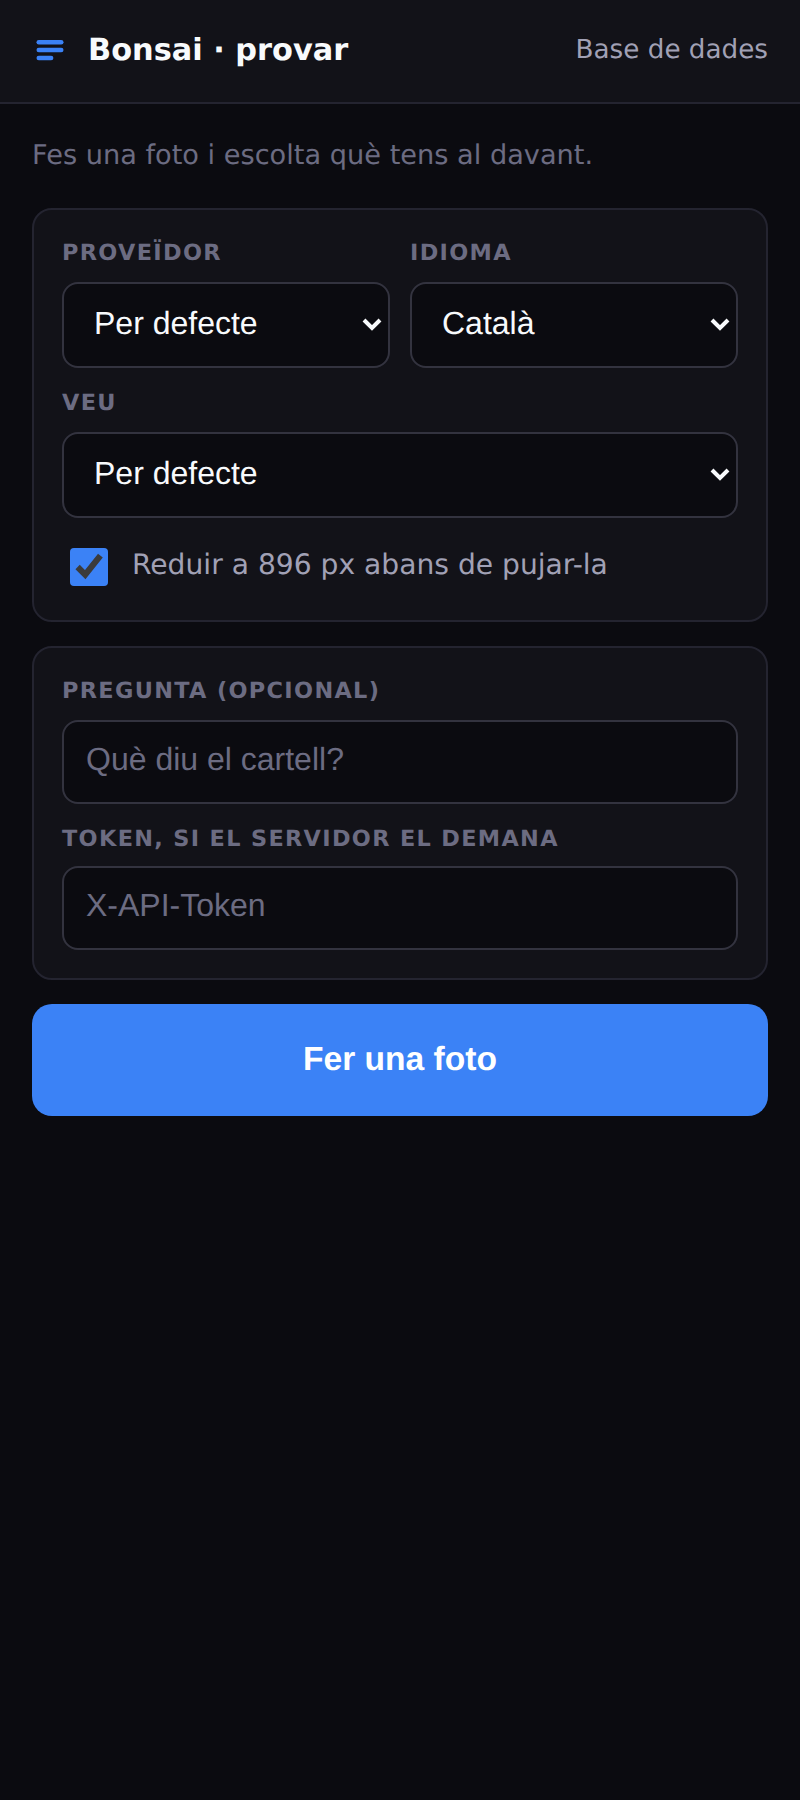
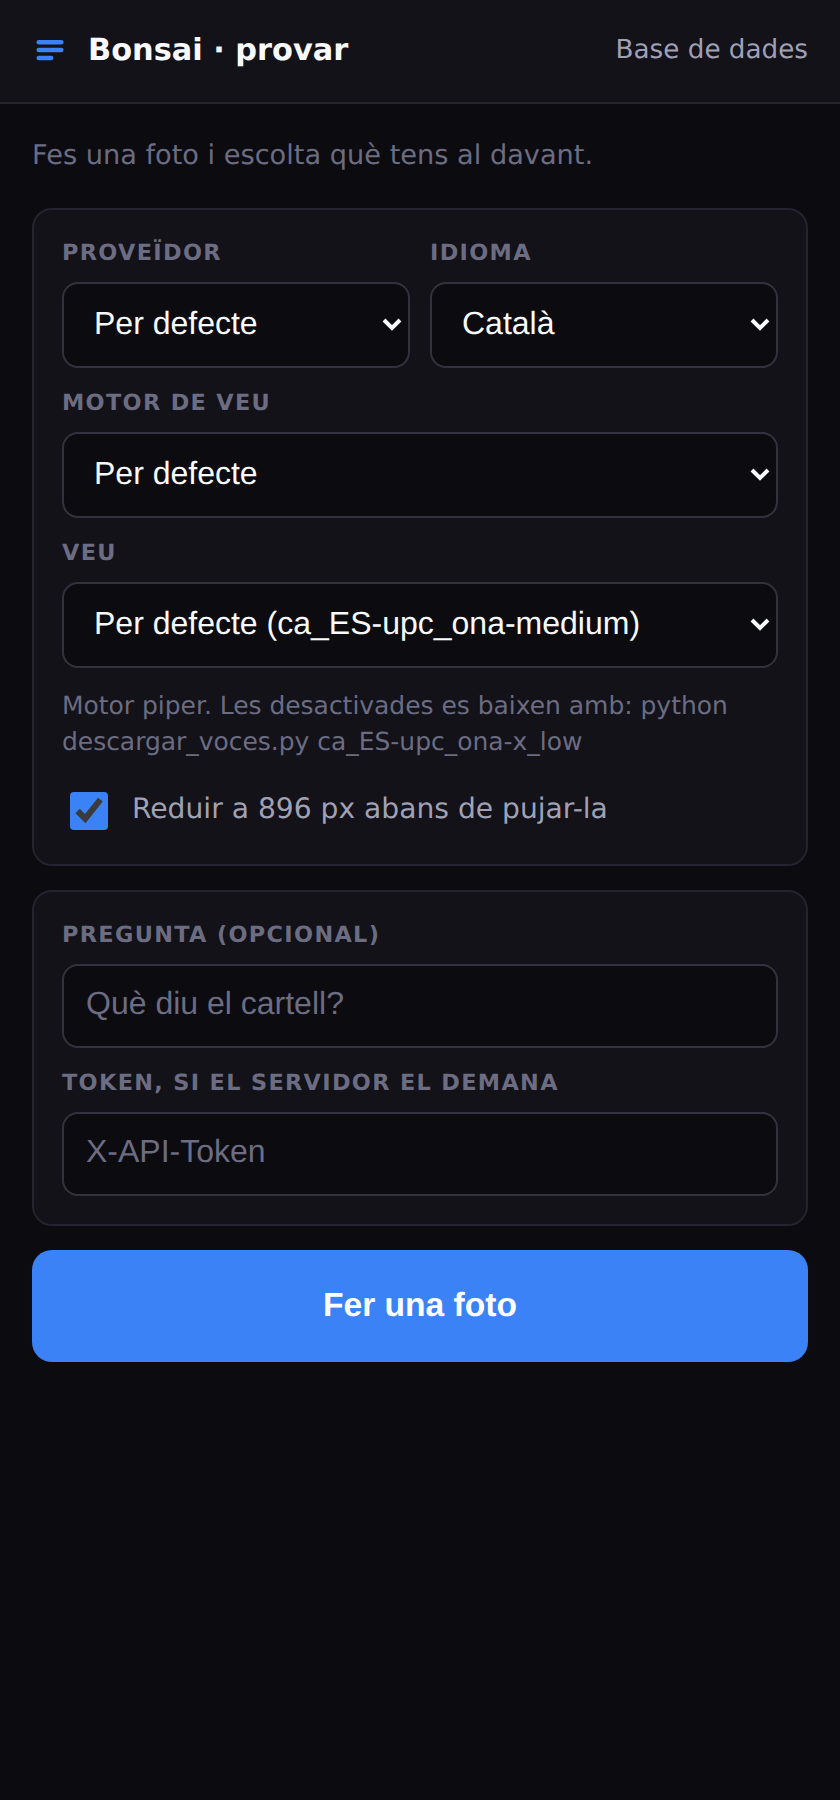
Poder triar la veu de Piper als endpoints i a /provar
/look i /speak ja acceptaven "voice" però /ask no: se li passava None. Ara
els tres el prenen, i la veu es valida abans de sintetitzar. Amb Piper la
veu és un fitxer .onnx al disc, o sigui que es pot comprovar: si està al
catàleg però no baixada, un 400 amb la comanda exacta; si no existeix, un
400 amb la llista del que hi ha. Abans una veu mal escrita donava un 502
a mitja síntesi i calia mirar els logs. Es comprova abans de la visió, així
que no gasta ni un token.

/voices ara distingeix el que hi ha al disc (voices), el que sabem baixar
(catalog) i la de per defecte (default), que no és el mateix i confondre-ho
feia que la interfície semblés trencada.

A /provar hi ha un desplegable de veus que s'omple de /voices, filtrat per
l'idioma triat, que recorda la tria i que ensenya les que caldria baixar
desactivades i amb la comanda a sota.

Al catàleg hi faltava ca_ES-upc_ona-x_low. Comprovat contra el repositori
de rhasspy/piper-voices que en català només n'hi ha tres: ni low ni high
d'upc_ona ni una medium d'upc_pau, totes 404.

Mesurades les dues que es poden fer servir ara mateix: upc_ona medium
215 ms (195-265) i upc_pau x_low 145 ms (131-155). Els 70 ms no compensen
sobre els ~1.900 ms d'un /ask sencer, així que la de per defecte no canvia.

Provat amb Playwright i httpx: 15 comprovacions, incloent-hi que canviar
d'idioma canvia la llista, que la tria es recorda entre càrregues i que
/look i /ask rebutgen una veu inventada.
[…]

diff --git a/static/probar.html b/static/probar.html
@@ -143,12 +143,18 @@
     </div>
   </div>
   <div class="espai"></div>
-  <label for="tts">Veu</label>
+  <label for="tts">Motor de veu</label>
   <select id="tts">
     <option value="">Per defecte</option>
     <option value="piper">Piper (local, ~205 ms)</option>
     <option value="edge">edge-tts (Microsoft, ~1,3 s)</option>
   </select>
+  <div class="espai"></div>
+  <label for="veu">Veu</label>
+  <select id="veu">
+    <option value="">Per defecte</option>
+  </select>
+  <p class="nota" id="notaVeu"></p>
   <div class="check">
     <input type="checkbox" id="reduir" checked>
     <label for="reduir">Reduir a 896 px abans de pujar-la</label>
@@ -181,10 +187,63 @@ const escapa = s => String(s).replace(/[<&]/g, c => ({"<":"&lt;","&":"&amp;"}[c]
 $("btn").onclick = () => $("file").click();
 
 // Recorda els ajustos entre fotos: provar des del mòbil és repetir molt.
-for (const id of ["prov", "lang", "tts", "token", "reduir"]) {
+for (const id of ["prov", "lang", "tts", "veu", "token", "reduir"]) {
   const el = $(id), desat = localStorage.getItem("bonsai." + id);
   if (desat !== null) el[el.type === "checkbox" ? "checked" : "value"] = desat === "true" ? true : desat === "false" ? false : desat;
   el.onchange = () => localStorage.setItem("bonsai." + id, el.type === "checkbox" ? el.checked : el.value);
+}
+
+/* Omple el desplegable de veus des de /voices.
+
+   Amb Piper hi ha dues llistes que no són el mateix: les que hi ha al disc
+   (funcionen ja) i les que el servidor sap baixar però encara no té. Les
+   segones es mostren desactivades amb el que cal fer, perquè si no sembla que
+   la interfície estigui trencada quan en tries una i torna un 400. */
+async function carregaVeus() {
+  const sel = $("veu"), nota = $("notaVeu");
+  // Del localStorage i no de sel.value: quan es carrega la pàgina el
+  // desplegable encara està buit, així que el bucle que restaura els ajustos
+  // no hi ha pogut deixar res.
+  const triada = localStorage.getItem("bonsai.veu") || "";
+  const cap = {};
+  if ($("token").value.trim()) cap["X-API-Token"] = $("token").value.trim();
+
+  // Filtra per idioma: les veus es diuen pel locale (ca_ES-..., es_ES-...) i
+  // amb l'idioma en castellà no té sentit ensenyar les catalanes.
+  const q = new URLSearchParams({ prefix: $("lang").value || "ca" });
+  if ($("tts").value) q.set("tts_provider", $("tts").value);
+
+  try {
+    const r = await fetch(API + "/voices?" + q, { headers: cap });
+    if (!r.ok) throw new Error("HTTP " + r.status);
+    const d = await r.json();
+
+    sel.innerHTML = `<option value="">Per defecte (${d.default})</option>`;
+    for (const v of d.voices) {
+      if (v !== d.default) sel.add(new Option(v, v));
+    }
+    const perBaixar = (d.catalog || []).filter(v => !d.voices.includes(v));
+    for (const v of perBaixar) {
+      const o = new Option(v + " — cal baixar-la", v);
+      o.disabled = true;
+      sel.add(o);
+    }
+    sel.value = [...sel.options].some(o => o.value === triada && !o.disabled)
+      ? triada : "";
+    nota.textContent = perBaixar.length
+      ? `Motor ${d.tts}. Les desactivades es baixen amb: python descargar_voces.py ${perBaixar[0]}`
+      : `Motor ${d.tts}, ${d.voices.length} ${d.voices.length === 1 ? "veu" : "veus"} a punt.`;
+  } catch (e) {
+    // Sense token no es pot llistar: no és motiu per no deixar fer fotos.
+    sel.innerHTML = '<option value="">Per defecte</option>';
+    nota.textContent = "No s'ha pogut llegir /voices (" + (e.message || e) +
+      "). Es farà servir la veu per defecte.";
+  }
+}
+
+carregaVeus();
+for (const id of ["tts", "lang", "token"]) {
+  $(id).addEventListener("change", carregaVeus);
 }
 
 /* Redueix al mòbil abans de pujar-la. Amb dades mòbils la pujada és la part
@@ -230,6 +289,7 @@ $("file").onchange = async e => {
     };
     if ($("prov").value) cos.provider = $("prov").value;
     if ($("tts").value) cos.tts = $("tts").value;
+    if ($("veu").value) cos.voice = $("veu").value;
     if ($("prompt").value.trim()) cos.prompt = $("prompt").value.trim();
 
     const cap = { "Content-Type": "application/json" };

diff --git a/main.py b/main.py
@@ -267,6 +267,26 @@ def _plan_de_audio(
         )
 
     voz = tts.voice_for(lang or tts.DEFAULT_LANG, voice, proveedor)
+    # Con Piper la voz es un fichero .onnx en disco, así que se puede
+    # comprobar antes de sintetizar. Sin esto, una voz mal escrita daba un 502
+    # a mitad de la síntesis y había que mirar los logs para entender por qué.
+    # Con edge-tts no se valida: el catálogo es de Microsoft y consultarlo
+    # costaría una petición a la red en cada foto.
+    if proveedor == "piper" and not piper_tts.is_available(voz):
+        if voz in piper_tts.catalogo():
+            raise HTTPException(
+                400,
+                f"La voz {voz!r} existe pero no está bajada. Trae los 63 MB "
+                f"con:  python descargar_voces.py {voz}",
+            )
+        raise HTTPException(
+            400,
+            f"Voz desconocida: {voz!r}. En disco hay: "
+            f"{', '.join(piper_tts.local_voices()) or 'ninguna'}. "
+            f"Se pueden bajar: {', '.join(piper_tts.catalogo())}. "
+            "El listado en vivo está en /voices.",
+        )
+
     if formato == "mp3":
         rate, bits = 24000, 16          # lo que devuelve edge-tts
     else:
@@ -562,6 +582,7 @@ async def ask(
     lang: str | None = None,
     provider: str | None = None,
     tts_provider: str | None = Query(default=None, alias="tts"),
+    voice: str | None = None,
     audioFormat: str | None = None,
     sampleRate: int | None = None,
     micRate: int = 16000,
@@ -589,13 +610,16 @@ async def ask(
     streaming, con el texto en `X-Bonsai-Text`. Además vuelve lo que se entendió
     en `X-Bonsai-Transcript`, para poder ver por qué ha contestado eso.
 
+    La voz se elige con `voice` (los nombres de Piper, p. ej.
+    `ca_ES-upc_pau-x_low`); `/voices` dice cuáles hay.
+
     Sobre la cuota: transcribir **no** gasta los tokens de texto de Groq
     (Whisper se factura por segundos de audio), así que probar `/ask` no te
     deja sin `/look`.
     """
     # Todo lo que se puede validar sin gastar nada se valida antes de que el
     # dispositivo suba medio megabyte para nada.
-    plan = _plan_de_audio(tts_provider, audioFormat, lang, None, sampleRate)
+    plan = _plan_de_audio(tts_provider, audioFormat, lang, voice, sampleRate)
     if micRate <= 0:
         raise HTTPException(400, f"micRate ha de ser positivo, no {micRate}.")
     if not stt.api_key():
@@ -832,35 +856,29 @@ def clear_device(device_id: str) -> dict[str, Any]:
 async def voices(prefix: str = "", tts_provider: str | None = None) -> dict[str, Any]:
     """Lista las voces disponibles, p. ej. /voices?prefix=ca
 
-    Con Piper son los modelos que hay en disco; con edge-tts, el catálogo de
-    Microsoft.
+    Con Piper devuelve tres cosas distintas, que conviene no confundir:
+
+    - `voices`: los modelos que hay en disco. Son las que funcionan ya.
+    - `catalog`: las que además sabemos bajar (`descargar_voces.py`). Pedir una
+      de estas sin haberla bajado da un 400 que dice cómo hacerlo.
+    - `default`: la que se usa si no se pide ninguna.
+
+    Con edge-tts solo hay `voices`: es el catálogo de Microsoft, que ya está
+    todo disponible sin bajar nada.
     """
     try:
         proveedor = tts.effective_provider(tts_provider)
     except ValueError as e:
         raise HTTPException(400, str(e)) from e
-    return {
+
+    salida: dict[str, Any] = {
         "tts": proveedor,
         "voices": await tts.list_available_voices(prefix, proveedor),
+        "default": tts.voice_for(tts.DEFAULT_LANG, None, proveedor),
     }
-
-
-# --------------------------------------------------------------------------
-# Panel de administración de la base de datos, en /admin
-# --------------------------------------------------------------------------
-# Es acceso SQL completo, así que solo se monta si hay ADMIN_PASSWORD. Sin
-# ella la ruta no existe, que es más seguro que existir y estar abierta.
-# Los recuerdos también se pueden tocar por la API con /memory, sin SQL.
-if os.environ.get("ADMIN_PASSWORD"):
-    import panel as _panel
-    from nicegui import ui as _ui
-
-    _panel.construeix("/admin")
-    _ui.run_with(
-        app,
-        mount_path="/admin",
-        # Firma la cookie de sesión del panel. Se deriva del propio password
-        # para no obligar a definir otra variable más.
-        storage_secret=os.environ["ADMIN_PASSWORD"],
-        title="Bonsai · base de dades",
-    )
+    if proveedor == "piper":
+        salida["catalog"] = [
+            v for v in piper_tts.catalogo()
+            if v.lower().startswith(prefix.lower())
+        ]
+    return salida

diff --git a/piper_tts.py b/piper_tts.py
@@ -42,8 +42,11 @@ BASE_URL = "https://huggingface.co/rhasspy/piper-voices/resolve/main"
 
 # Dónde vive cada voz dentro del repositorio de Hugging Face. Hace falta porque
 # la ruta no se deduce del nombre: el idioma va dos veces y la calidad aparte.
+# En catalán solo hay estas tres en el repositorio (comprobado: ni "low" ni
+# "high" de upc_ona, ni una medium de upc_pau; los tres dan 404).
 _RUTAS = {
     "ca_ES-upc_ona-medium": "ca/ca_ES/upc_ona/medium",
+    "ca_ES-upc_ona-x_low": "ca/ca_ES/upc_ona/x_low",
     "ca_ES-upc_pau-x_low": "ca/ca_ES/upc_pau/x_low",
     "es_ES-davefx-medium": "es/es_ES/davefx/medium",
     "en_GB-alba-medium": "en/en_GB/alba/medium",
@@ -70,6 +73,15 @@ def voice_path(voice: str) -> str:
 
 def is_available(voice: str) -> bool:
     return os.path.isfile(voice_path(voice))
+
+
+def catalogo() -> list[str]:
+    """Las voces que sabemos de dónde bajar, estén en disco o no.
+
+    Sirve para poder decirle a quien pide una voz que no está si es que le
+    falta bajarla o es que se ha equivocado escribiéndola.
+    """
+    return sorted(_RUTAS)
 
 
 def local_voices() -> list[str]:

diff --git a/README.md b/README.md
@@ -133,7 +133,7 @@ bonsai> help
 | `POST` | `/speak?text=...&lang=ca` | Només text a veu |
 | `GET`/`POST` | `/memory` | Dispositius i records |
 | `PATCH`/`DELETE` | `/memory/{deviceId}/{id}` | Corregeix o esborra un record |
-| `GET` | `/voices?prefix=ca` | Veus disponibles |
+| `GET` | `/voices?prefix=ca` | Quines veus hi ha i quines es poden baixar |
 | `GET` | `/health` | Estat del servei. Sense autenticació |
 | `GET` | `/admin` | Panell de la base de dades. Amb `ADMIN_PASSWORD` |
 
@@ -147,6 +147,7 @@ bonsai> help
   "lang": "ca",                        // ca | es | en
   "provider": "groq",                  // groq | gemini. Per defecte, VISION_PROVIDER
   "tts": "piper",                      // piper | edge. Per defecte, TTS_PROVIDER
+  "voice": "ca_ES-upc_pau-x_low",      // opcional; les que digui /voices
   "audioFormat": "pcm16",              // pcm16 | mulaw | wav, o mp3 amb edge
   "sampleRate": 16000                  // 8000 | 16000 | 22050
 }
@@ -254,7 +255,7 @@ preàmbul es configuren amb `ASK_WAKE_PHRASE` i `ASK_WAKE_REPLY`. Si canvies el
 clip de les ulleres i no les canvies, li estaràs explicant al model una
 conversa que no ha passat.
 
-Els paràmetres van a la query: `deviceId`, `lang`, `provider`, `tts`,
+Els paràmetres van a la query: `deviceId`, `lang`, `provider`, `tts`, `voice`,
 `audioFormat`, `sampleRate`, `micRate` (per defecte 16000) i `maxSide`.
 
 ```bash
@@ -310,6 +311,41 @@ encara que la visió vagi per Gemini.
 Tots els endpoints excepte `/health` i `/provar` demanen
 `X-API-Token` si `BONSAI_API_TOKEN` està definit. `/admin` no fa servir el
 token: té la seva pròpia contrasenya (`ADMIN_PASSWORD`).
+
+### Triar la veu
+
+Els tres endpoints que parlen —`/look`, `/ask` i `/speak`— accepten `voice`.
+Amb Piper són els noms dels models de
+[rhasspy/piper-voices](https://huggingface.co/rhasspy/piper-voices); amb
+edge-tts, els de Microsoft (`ca-ES-JoanaNeural`).
+
+`GET /voices?prefix=ca` distingeix tres coses que no són el mateix:
+
+```jsonc
+{
+  "tts": "piper",
+  "voices": ["ca_ES-upc_ona-medium"],     // al disc: funcionen ja
+  "catalog": ["ca_ES-upc_ona-medium",     // les que el servidor sap baixar
+              "ca_ES-upc_ona-x_low",
+              "ca_ES-upc_pau-x_low"],
+  "default": "ca_ES-upc_ona-medium"
+}
+```
+
+Demanar una del catàleg que no estigui baixada dona un **400 que diu la
+comanda exacta** (`python descargar_voces.py <nom>`), i una que no existeix, un
+400 amb la llista. Es comprova abans de la visió, així que una veu mal escrita
+no gasta ni un token.
+
+En català només n'hi ha tres al repositori de Piper (comprovat: ni `low` ni
+`high` d'`upc_ona`, ni una `medium` d'`upc_pau`, totes 404). Mesurades amb la
+mateixa frase:
+
+| Veu | Síntesi | Model | |
+| --- | --- | --- | --- |
+| `ca_ES-upc_ona-medium` | 215 ms (195-265) | 63 MB | la de per defecte |
+| `ca_ES-upc_pau-x_low` | **145 ms** (131-155) | 28 MB | veu masculina, més ràpida però es nota que és x_low |
+| `ca_ES-upc_ona-x_low` | — | 20 MB | la mateixa locutora en x_low |
 
 ---
 

diff --git a/docs/BENCHMARKS.md b/docs/BENCHMARKS.md
@@ -36,7 +36,8 @@ Cada resposta porta els seus `timings` per poder repetir les mesures.
 | Reduir la foto al servidor | 192 ms | Només si arriba més gran de 896 px |
 | Visió, Groq `qwen3.6-27b` | **552 ms** (551-554) | El més ràpid i el més regular |
 | Visió, Gemini `3.1-flash-lite` | 844 ms (649-937) | Més irregular |
-| Veu, Piper `upc_ona` | 205 ms | En local |
+| Veu, Piper `upc_ona` medium | 205-215 ms | En local, la de per defecte |
+| Veu, Piper `upc_pau` x_low | 145 ms (131-155) | Masculina, model de 28 MB |
 | Veu, edge-tts amb text nou | 1.320 ms (949-2.089) | Depèn de Microsoft |
 | Escoltar l'àudio | ~10 s | 1-2 frases. És el tram més llarg de tots |
 
@@ -76,6 +77,26 @@ Tres coses que en surten:
 Compte en llegir aquests números: la pujada va per `localhost`, o sigui zero.
 Per WiFi, els 1.984 KB de la foto sencera hi sumarien segons; els 102 KB de la
 reduïda, dècimes.
+
+### Les tres veus catalanes de Piper
+
+Al repositori de rhasspy/piper-voices només n'hi ha tres, comprovat una a una
+contra el repositori: `low` i `high` d'`upc_ona` i la `medium` d'`upc_pau` no
+existeixen, donen 404.
+
+| Veu | Síntesi (mediana de 5) | Model | Sortida |
+| --- | --- | --- | --- |
+| `ca_ES-upc_ona-medium` | 215 ms (195-265) | 63 MB | 22.050 Hz |
+| `ca_ES-upc_ona-x_low` | — | 20 MB | 16.000 Hz |
+| `ca_ES-upc_pau-x_low` | **145 ms** (131-155) | 28 MB | 16.000 Hz |
+
+Els 70 ms que guanya `upc_pau` no compensen: sobre els ~1.900 ms d'una petició
+sencera de `/ask` és un 4 %, i es nota que és x_low. Es queda `upc_ona` medium.
+On sí que poden servir les x_low és en una màquina amb poca RAM: 20-28 MB de
+model contra 63.
+
+Mesurat amb la mateixa frase i cinc síntesis per veu. Piper no cacheja —
+sintetitza de zero cada vegada— així que aquí no hi ha el problema de l'edge-tts.
 
 ### La pujada en trossos: què se solapa i què no
 

diff --git a/CLAUDE.md b/CLAUDE.md
@@ -119,6 +119,14 @@ defecto). 205 ms de mediana frente a los 1.320 ms de edge-tts con texto nuevo, y
 que engañe porque sintetiza de cero cada vez. Una petición completa con foto pasó de
 2.575 ms a 1.170 ms. edge-tts sigue disponible con `TTS_PROVIDER=edge` o `"tts":"edge"`.
 
+**En catalán solo hay tres voces** en rhasspy/piper-voices, comprobado a mano
+contra el repositorio: `upc_ona-medium` (la de por defecto, 63 MB, 215 ms),
+`upc_ona-x_low` (20 MB) y `upc_pau-x_low` (voz masculina, 28 MB, 145 ms). No
+existen `low` ni `high` de ona ni una `medium` de pau: dan 404. Se eligen con
+`voice` en `/look`, `/ask` y `/speak`, y `/voices` dice cuáles hay en disco
+(`voices`) y cuáles se pueden bajar (`catalog`). Una voz que no está en disco
+da un 400 antes de tocar la visión, así que no gasta cuota.
+
 Ojo: **Piper devuelve WAV y edge-tts MP3**. El formato va en `audioFormat`, no lo des por
 hecho. El WAV pesa 247 KB frente a 66 KB de la misma frase en MP3, que importa por BLE.
 
